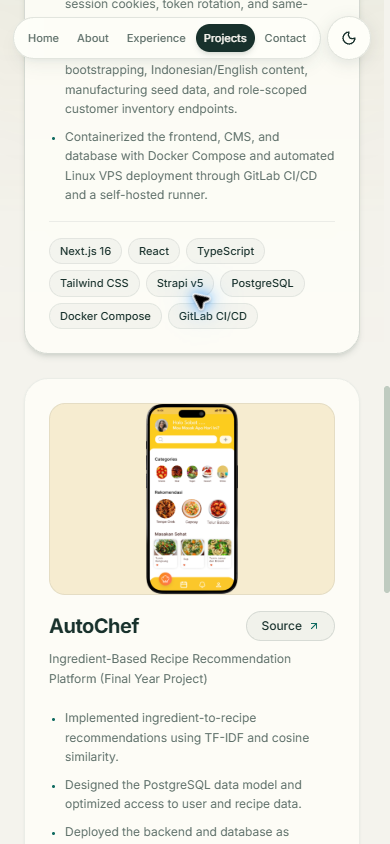
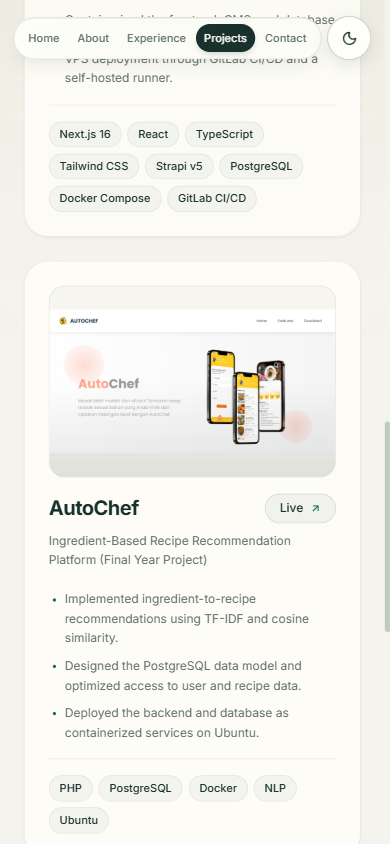
fix: update PT Merdeka Sejahtera live project URL to merdekasejahterabersama.com

diff --git a/src/index.css b/src/index.css
@@ -462,6 +462,16 @@ p {
   object-position: 50% 26%;
   border-radius: 24px;
 }
+.sculpture-canvas.unavailable {
+  cursor: default;
+}
+.sculpture-canvas.unavailable canvas {
+  visibility: hidden;
+}
+.sculpture-panel:has(.sculpture-canvas.unavailable)
+  :is(.motion-control, .sculpture-hint) {
+  display: none;
+}
 .sculpture-hint {
   position: absolute;
   z-index: 2;
@@ -841,6 +851,13 @@ p {
 }
 .project-card:hover .project-image img {
   transform: scale(1.05);
+}
+.project-image img[src="/projects/autochef-screen.png"] {
+  object-fit: contain;
+  object-position: center;
+}
+.project-card:hover .project-image img[src="/projects/autochef-screen.png"] {
+  transform: none;
 }
 .project-card-heading {
   display: flex;

diff --git a/src/data/resume.js b/src/data/resume.js
@@ -127,7 +127,7 @@ export const projects = [
       "Docker Compose",
       "GitLab CI/CD",
     ],
-    live: "https://msb.pradita.my.id",
+    live: "https://merdekasejahterabersama.com/",
     featured: true,
     points: [
       "Built portal features with Next.js App Router and Strapi, including AES-256-GCM encrypted session cookies, token rotation, and same-origin request checks.",

diff --git a/src/components/3d/SculptureScene.jsx b/src/components/3d/SculptureScene.jsx
@@ -282,7 +282,7 @@ export default function SculptureScene({ paused, theme = "light" }) {
         <img
           className="sculpture-fallback"
           src="/images/sculpture-fallback.jpg"
-          alt="Classical male sculpture"
+          alt="Upper-body portrait of a classical male sculpture"
         />
       )}
     </div>

diff --git a/design-qa.md b/design-qa.md
@@ -2,63 +2,71 @@
 
 final result: passed
 
-## Scope and visual evidence
+Verified 9 October 2026. No actionable P0/P1/P2 findings remain within the requested scope.
 
-Adaptation of https://musee.barvian.me/ into the existing personal portfolio, with a male sculpture as explicitly requested. This is an independent portfolio implementation, not a pixel-identical museum clone.
+## Visual truth and evidence
 
-- Source truth: `design-evidence/reference-desktop.png`, `design-evidence/reference-mobile.png`.
-- Implementation: `design-evidence/portfolio-desktop.png`, `design-evidence/portfolio-mobile.png`.
-- Combined comparison inputs, opened and visually inspected: `design-evidence/comparison-desktop.jpg`, `design-evidence/comparison-mobile.jpg`.
-- Extra interaction evidence: `design-evidence/project-mobile.png`.
-- Desktop CSS viewport: 1440 × 900. Browser screenshot exports: source 1425 × 891, implementation 1435 × 897; normalized to 1440 × 900 for comparison.
-- Mobile CSS viewport: 390 × 844. Browser screenshot exports: source 375 × 812, implementation 385 × 833; normalized to 390 × 844 for comparison. Export scaling was normalized before judging layout; it is not a site overflow issue.
-- State: home/hero, model fully loaded. Detailed projects, experience, navigation dialog, and contact were also inspected in the in-app browser.
+The five-page UI follows https://portfolio.gugum.my.id/. Own identity, Panasonic experience, AutoChef and the male Perseus sculpture are preserved. Ivory/teal and forest/teal palettes, brighter lighting and removal of explicit anatomy are intentional changes requested by the user.
 
-## Findings and comparison history
+Evidence root: `design-evidence/gugum-ui/`.
 
-1. Initial implementation: the top of Perseus was clipped and the sculpture was too bright. Camera distance/target height, model rotation, material color/roughness, and bloom were adjusted. The final desktop and mobile images show the male face and upper body clearly with a dark sculptural treatment. Resolved.
-2. Long-page navigation: the initial header disappeared after scrolling. Header now stays fixed, with a dark background over lower sections. Desktop and mobile navigation/dialog interactions were rechecked. Resolved.
-3. Pause initially returned the camera to the first pose. It now retains the current pose, stops pointer and scroll-driven motion, and resumes when enabled. The reduced-motion startup uses the intended initial rotation. Resolved.
-4. Final combined comparisons show no actionable P0/P1/P2 findings within the requested adaptation scope.
+- Source: `source-{home,about,experience,projects,contact}-{desktop,mobile}.png`.
+- Final implementation: `themes/{light,dark}-{home,about,experience,projects,contact}-{desktop,mobile}.png`.
+- Combined source/light/dark inputs opened and inspected: `themes/qa-triple-{home,about,experience,projects,contact}-{desktop,mobile}.jpg`.
+- Focused controls: `themes/qa-triple-{nav,form,card}.jpg`.
+- Focused lighting/geometry: `themes/qa-final-face.jpg`, `themes/qa-final-pelvis-angles.jpg`, `themes/qa-four-orbit.jpg`.
+- Scrolled comparisons: `themes/qa-final-{home-sculpture,about-lower,experience-lower,projects-lower,projects-menu}-mobile.jpg`.
+- Extra states: `themes/sculpture-fallback-desktop.png`, `themes/dark-contact-small.png`.
+
+Desktop captures: 1440 × 900 CSS and image pixels. Mobile: 390 × 844; narrow check: 320 × 700. Captures use density 1 and were compared without rescaling. Comparison sheets add a label strip. The user's initial screenshot uses a different viewport and identifies the lighting problem, rather than a spacing target.
+
+States include loaded home, both themes on all routes, paused orbit, lower content, RKD dropdown, contact controls and model-load failure. Focused crops were needed for small UI text, face shading and mesh continuity.
+
+## Comparison history and resolved findings
+
+1. **[P2, resolved] Sculpture detail was too dark.** Warm stone material and directional key/rim/fill lighting replace the black treatment. The first bright iteration washed out highlights; reduced exposure and ambient/fill intensity restored face, torso and cloth detail. Final face and orbit comparisons preserve shading in both themes.
+2. **[P2, resolved] Explicit anatomy remained on the scan.** Local smoothing changes 438 vertices in a small pelvis region, retains topology and welds seam vertices. The decoded-mesh check verifies unchanged positions elsewhere. Four browser angles show smooth removal without visible holes. The fallback photo uses an upper-body crop.
+3. **[P2, resolved] Mobile theme control overlapped Send Message.** It now shares the header row with navigation. Compact spacing and a Home icon keep the 44 px control visible at 320 px. Revised Contact screenshots show an unobstructed CTA.
+4. **[P2, resolved] Panasonic metadata was cramped.** Mobile company/date metadata now stacks into separate rows; revised Experience comparisons are readable.
+5. **[P2, resolved] Teal small text lacked contrast on tinted fills.** A separate accent-text token gives checked ratios of badge 5.36:1 light / 5.83:1 dark, dropdown hover 5.45 / 5.00, and placeholders 4.52 / 6.37. Muted text also exceeds 4.5:1.
+6. **[P2, resolved] Narrow navigation overflow.** Responsive spacing fits navigation and theme control within the 314 px body at a 320 px viewport.
+7. A manual theme override ref preserves the session choice when storage fails, even after a system-theme change.
+8. **[P2, resolved] Updated AutoChef landing screenshot was cropped.** Its wide image now uses `object-fit: contain` without hover enlargement, preserving the logo and heading within the project slot in both themes.
 
 ## Required fidelity surfaces
 
-- Typography: Baskerville/Times New Roman display typography follows the source serif direction. Inter replaces the source's proprietary Cera font. Large, overlapping editorial headlines and compact uppercase navigation are retained. Italic words are an intentional portfolio variation.
-- Layout: full-viewport sculptural hero, fine vertical grid, left chapter indicators, right-aligned desktop headline and narrow description. Mobile uses a single-column hero and accessible menu. No horizontal overflow was observed at 390 px.
-- Colors: near-black background, dark metallic sculpture, pale text, white halo, and small blue active-navigation accents. Halo softness and statue framing are intentionally adapted to Perseus's different silhouette.
-- Image quality: actual locally bundled 3D museum scan, not a flat imitation. Local Draco decoder and local fallback photograph. Perseus replaces Venus as requested; the male subject and its pose account for deliberate crop/composition differences. Face, sculpture surface, and text were inspected in full-size browser screenshots as well as the combined comparison.
-- Content: original profile, education, five projects, experience, programming skills, collaboration skills, spoken languages, GitHub, LinkedIn, and email retained through the shared resume data. Museum copy replaced with portfolio content. No invented employment or projects.
+- **Typography:** local Inter/JetBrains Mono preserve hierarchy, labels and card density; personal text wraps naturally. Mobile navigation is compact to accommodate the theme control.
+- **Layout:** floating pill, desktop split hero/contact, project grid, alternating experience cards and mobile stacking remain coherent. No horizontal overflow was observed at 390/1440 px; the narrow header also fits at 320 px.
+- **Colors:** both palettes cover all surfaces, borders, forms, dropdowns, icons, focus states and native form color-scheme. Requested color differences are intentional. Checked primary, secondary, placeholder and CTA text contrast passes.
+- **Assets:** the real compressed museum scan remains interactive. Face/hair/cloth details are visible. Genuine shared screenshots and social icons remain; AutoChef uses the user's own image and current Vercel link.
+- **Content:** personal identity, CV, education, Panasonic, TapInAja, AutoChef and shared team projects remain in resume data. No teammate identity or employment was substituted.
 
 ## Functional checks
 
-- Hero CTA navigates to selected work; chapter indicator updates.
-- Money Tracker details open and expose the correct repository URL.
-- AutoChef details work on mobile and expose the existing live-project URL.
-- Skill disclosure expands and displays the saved language list.
-- Navigation dialog opens; initial focus moves inside; Escape closes and returns focus. Mobile menu navigation closes the dialog and reaches the selected section.
-- Copy email reports Copied; mailto and social destinations match resume data. No email was sent.
-- Pause/resume control updates its accessible state; motion is driven by scroll/pointer when enabled.
-- Desktop and mobile 3D loading reach data-scene-status=ready.
-- GPU resources/listeners are disposed on unmount. Context loss stops the render loop and shows the local image fallback.
+- Both theme choices persist after reload and route navigation. The explicit saved choice overrides an emulated system preference change. Enter toggles the theme and its accessible state updates.
+- Initial system fallback and pre-paint bootstrap were checked in code. Storage failure retains the manual session choice.
+- Theme changes keep the scene ready. Drag/keyboard orbit, Home reset and pause work. Emulated reduced-motion startup is paused.
+- Temporarily blocking the model request shows the upper-body fallback and hides the empty canvas/orbit controls. Removing the test block and reloading restores the model.
+- Navigation/history, dropdown dismissal, email copy, required/email validation and trimmed-message validation were checked. Contact submission prepares a draft for the visitor to send; no message was sent.
+- Lower About, skills, project cards and RKD dropdown were inspected in both palettes.
 
-## Build and console
+## Build and limits
 
-- `npm run build`: passed. Vite reports a large Three.js lazy chunk (approximately 642 KB uncompressed / 165 KB gzip); the initial page bundle is approximately 54 KB gzip.
-- `npx eslint src/App.jsx src/components/3d/SculptureScene.jsx eslint.config.js`: passed.
+- Production build and static route entries: passed.
+- Targeted ESLint for App, SculptureScene, mesh helper, route-entry script and config: passed.
 - `git diff --check`: passed.
-- Repository-wide ESLint: 261 errors and 1 warning in unchanged legacy components, which are retained but no longer rendered by App. Vendor Draco code is excluded from lint.
-- During development a transient HMR syntax failure was corrected; the final code builds and loads. An environment shader precision warning appeared without affecting rendering; deprecated Clock usage was replaced.
+- Final normal-size in-app preview: home ready, dark theme active, no overflow, and no console errors returned.
+- User-facing light/dark proof: `design-evidence/gugum-ui/themes/final-preview.jpg` (1760 × 586 comparison; source captures are 1440 × 900).
+- Vite reports a roughly 646 KB lazy Three.js chunk / 166 KB gzip. The scene remains lazy-loaded.
+- Repository-wide lint includes pre-existing legacy-component errors; changed files pass.
+- Hardware-specific GPU failures were not exhaustively simulated. Model-load failure was tested; WebGL creation/context-loss handling was reviewed.
 
-## Residual test limits
+No deployment was performed. Local preview: http://127.0.0.1:5173/.
 
-Hardware-specific WebGL failures and OS-level reduced-motion emulation were not forced in browser automation. Fallback paths and reduced-motion initialization were reviewed in code. Mail clients and external project availability were not tested by submitting anything. Further asset simplification could reduce download size, but is optional polish.
+## Checklist
 
-## Implementation checklist
-
-- [x] Replace space theme with sculptural editorial portfolio.
-- [x] Use an actual male statue in Three.js.
-- [x] Preserve portfolio content and working navigation/contact links.
-- [x] Verify desktop and mobile visual composition and primary controls.
-- [x] Keep the local preview available; do not deploy without a publishing request.
-
-Final clean-tab verification: scene ready, no horizontal overflow, and zero console errors in a newly opened preview tab. Preview remains open at http://127.0.0.1:5173/.
+- [x] Preserve reference UI and personal content.
+- [x] Add persistent light/dark themes.
+- [x] Improve lighting without blown highlights.
+- [x] Remove explicit anatomy in the rendered mesh and fallback view.
+- [x] Verify responsive controls, orbit angles and production build.

diff --git a/README.md b/README.md
@@ -17,6 +17,7 @@ npm run preview
 - `src/App.jsx`: five pages, browser-history navigation, project links, contact form, theme switch, and motion control.
 - `src/index.css`: responsive light/dark theme tokens, floating navigation, cards, and locally hosted fonts.
 - `src/components/3d/SculptureScene.jsx`: orbit controls, scene lighting, material, loading/error handling, and GPU resource disposal.
+- `src/components/3d/smoothSculpturePelvis.js`: localized mesh smoothing that removes explicit anatomy while preserving the sculpture's pose and drapery.
 - `public/models/perseus.glb`: 3.75 MB compressed museum scan.
 - `public/models/draco/`: local geometry decoder; no runtime decoder CDN required.
 - `public/credits.txt`: sculpture provenance and design credits.
@@ -24,6 +25,8 @@ npm run preview
 The Three.js module is lazy-loaded. Warm stone material, a directional key light, cool rim light, and softer fill reveal the sculpture's details. Lights and halo colors adapt to the active theme without reloading the model. The scene respects the system reduced-motion preference, supports pausing, and stops rendering in hidden tabs. Drag horizontally or use arrow keys to orbit; Home resets the view. Vertical touch swipes preserve page scrolling. A local sculpture image is used if WebGL or model loading fails. Inter and JetBrains Mono are hosted locally with their OFL licenses.
 
 The theme initially follows the system preference. The sun/moon control changes it and saves the choice in local storage. An early head script applies the saved theme before the first paint. Both themes cover all five pages and native form controls.
+
+The sculpture's pelvis is smoothed once during model loading. This changes a small vertex region without deleting faces or hiding anatomy behind the camera. The fallback photograph uses an upper-body crop, with unavailable 3D controls hidden.
 
 The contact form validates fields and opens an email draft addressed to Ghazali; it does not send messages through a server. Copy email, personal social links, the local CV, and project links are functional. AutoChef is deployed live on Vercel (https://autochef.vercel.app/) with its authentic landing page preview, and its backend repository remains linked.
 

diff --git a/docs/content-import.md b/docs/content-import.md
@@ -11,5 +11,6 @@
 - AutoChef is live at https://autochef.vercel.app/, with its Live button pointing to the deployment and the backend repository linked in the codebase.
 - Contact form opens a mailto draft to the user's own address after native and trimmed-message validation. No third-party form recipient or teammate API key is used. Sending is completed by the visitor in their email app.
 - The Three.js scene now has transparent background, drag/keyboard orbit, Home reset, pause/reduced motion, local loading/fallback assets and GPU cleanup.
+- At the user's request, explicit anatomy is removed by localized mesh smoothing. The pose, drapery and geometry outside the edited region remain intact. The fallback photo uses a non-explicit upper-body crop.
 - Static route entry files are generated after Vite build for direct links and refreshes.
 - `npm run build` and targeted ESLint passed. Browser tests and final visual results are in `design-qa.md`.
